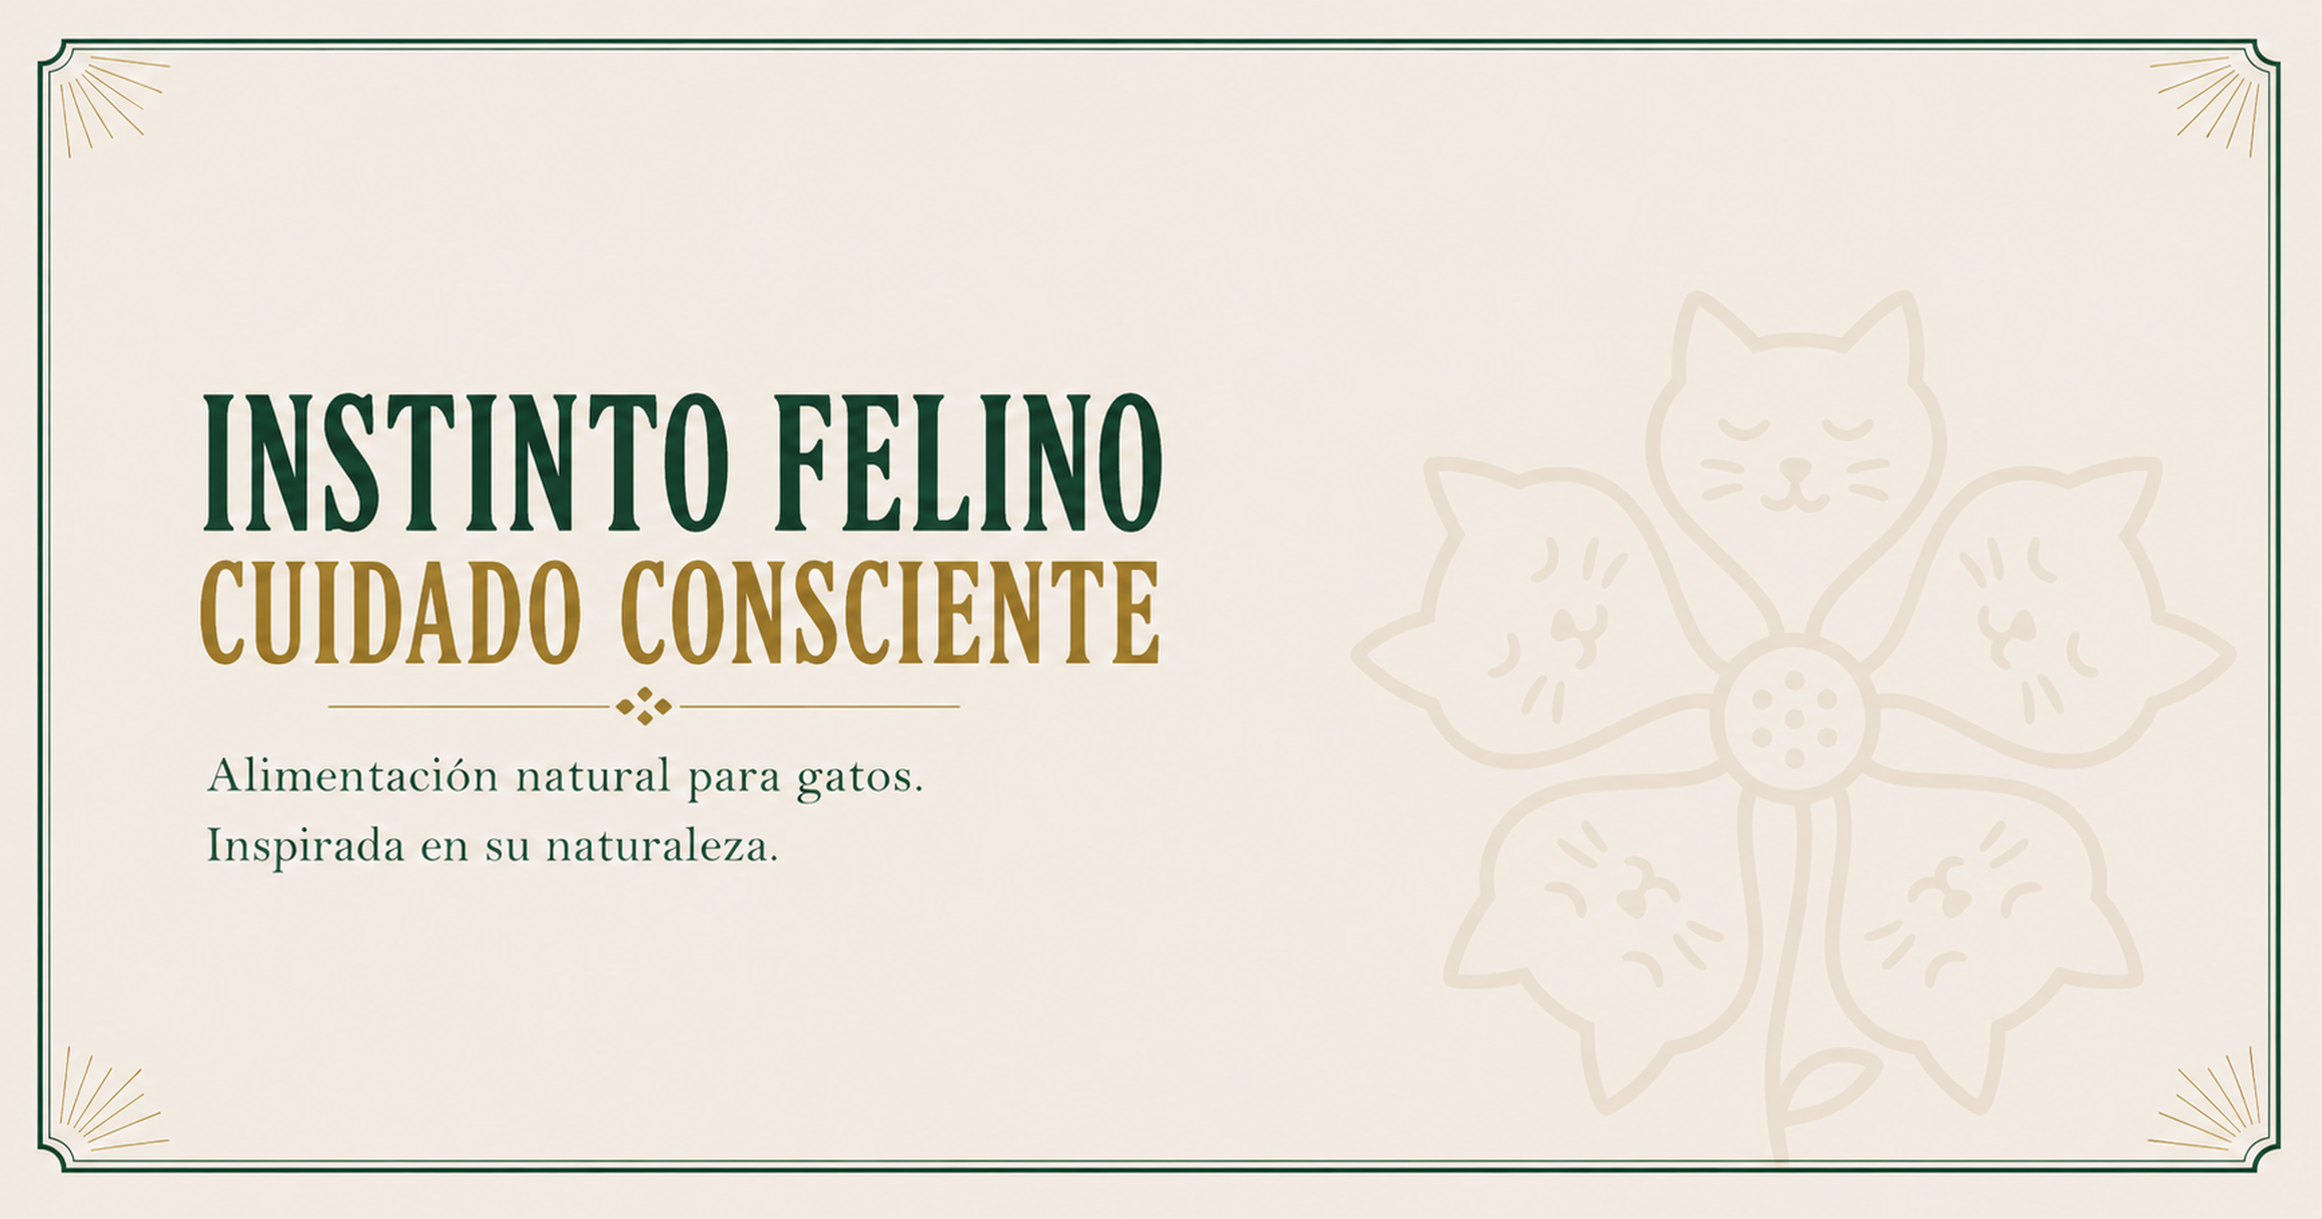
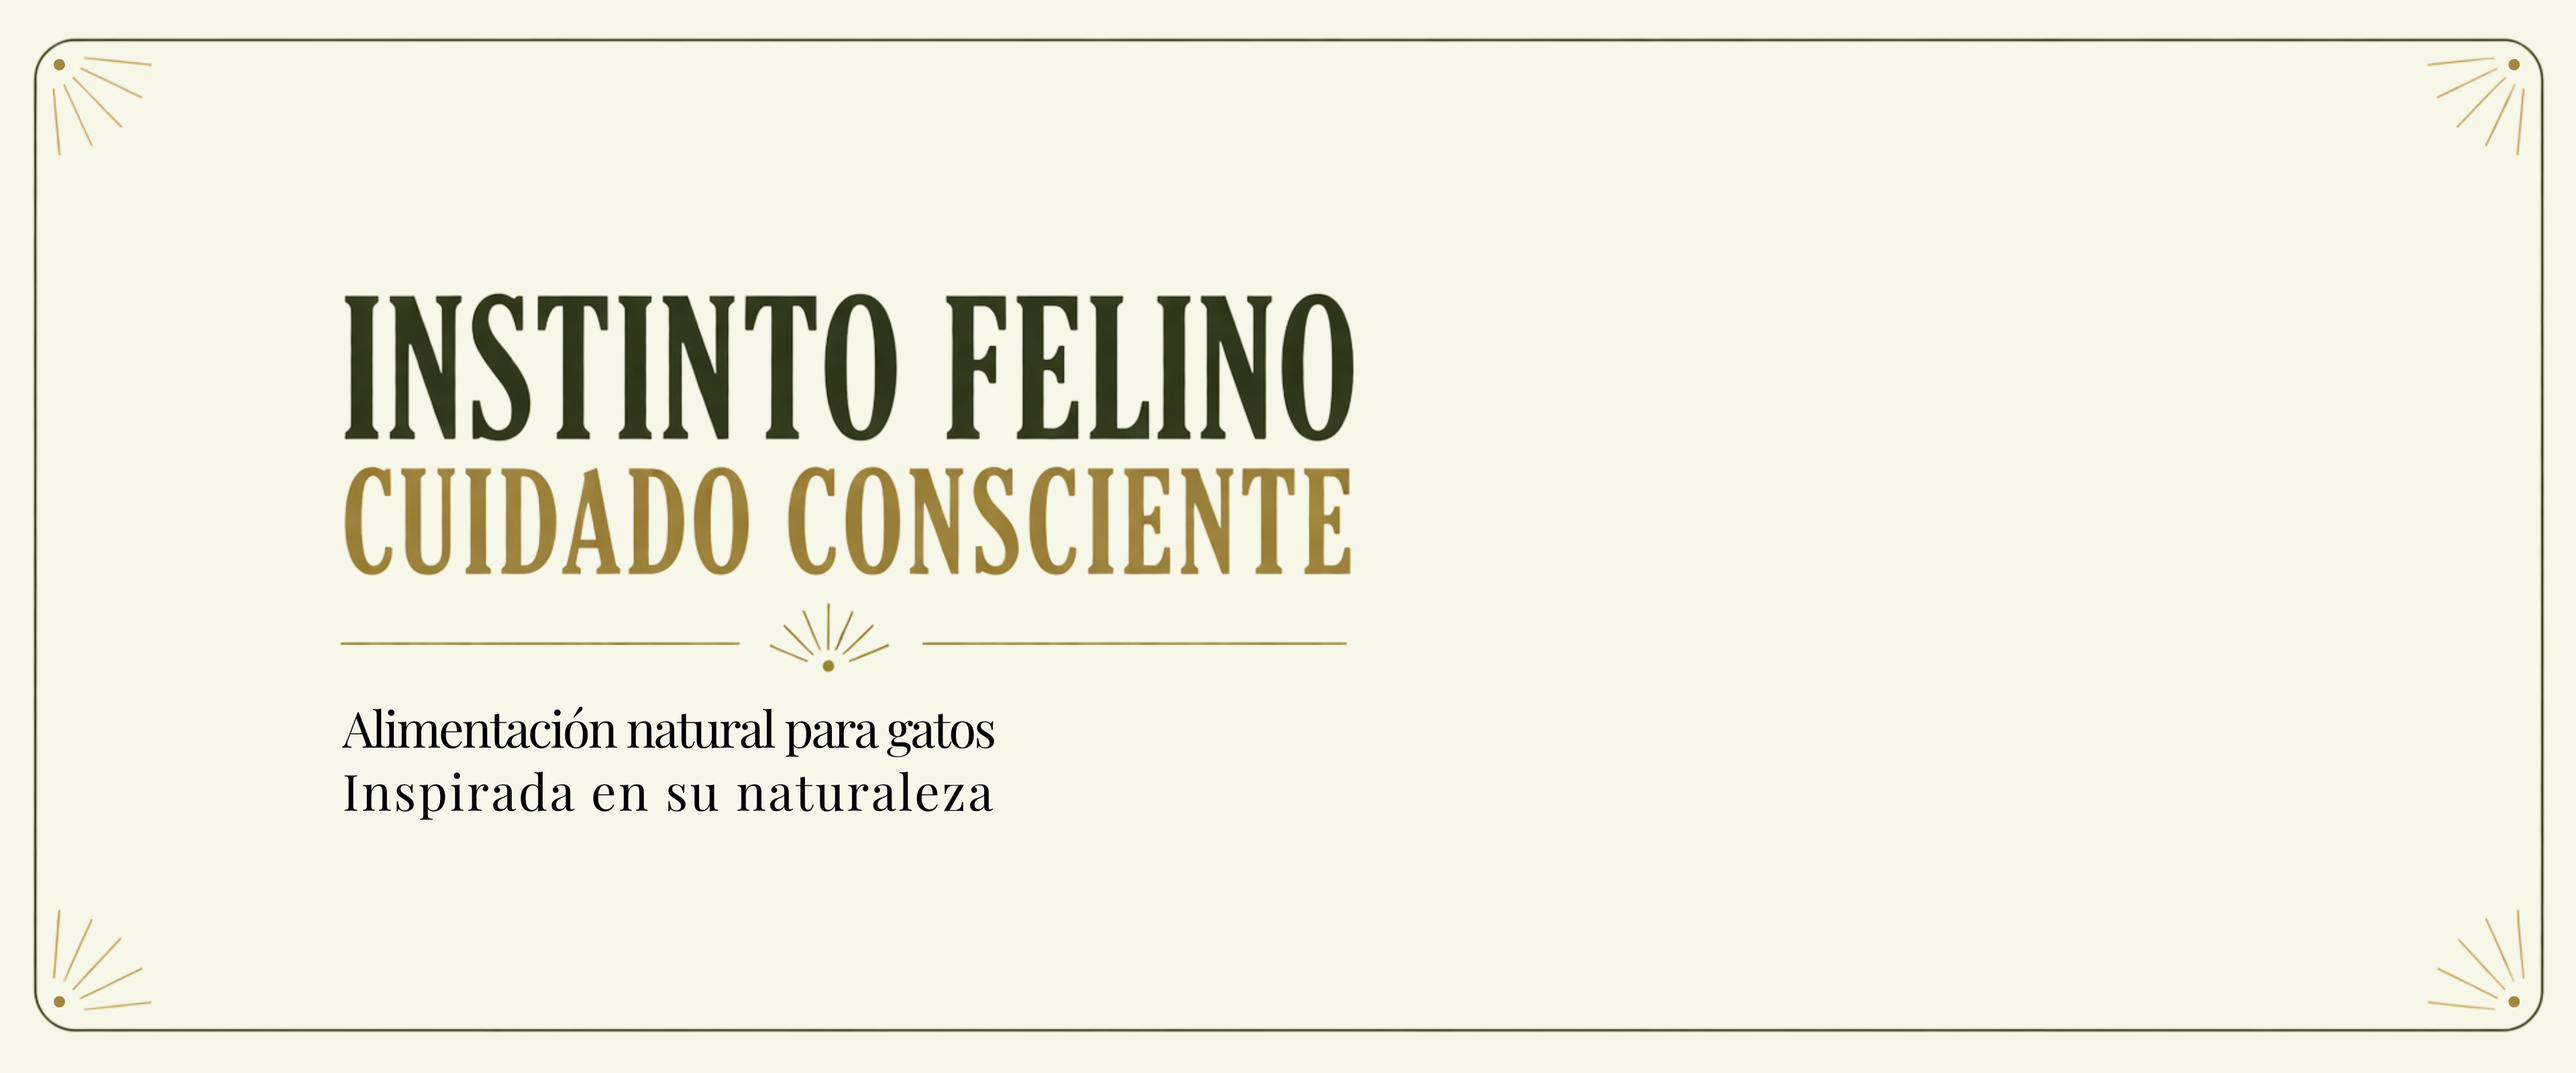
Add files via upload

diff --git a/index.html b/index.html
@@ -811,7 +811,7 @@
   .hero{
     position:relative;
     width:100%;
-    aspect-ratio:1731/909;
+    aspect-ratio:2.4/1;
     background:#f1ecd5;
     overflow:hidden;
     isolation:isolate;
@@ -831,14 +831,16 @@
     object-position:center;
     image-rendering:auto;
   }
-  /* Video hero, rectangular 9:16, centrado en la zona vacía del lado derecho — sin marco */
+  /* Video hero, rectangular 9:16, lado derecho — bordes redondeados + marco verde finito */
   .hero-cat{
     position:absolute;
     right:12%;top:50%;transform:translateY(-50%);
-    height:78%;
+    height:74%;
     aspect-ratio:9/16;
     z-index:3;
     overflow:hidden;
+    border-radius:14px;
+    border:1px solid var(--olive);
   }
 
   .hero-cat video{
@@ -1946,7 +1948,7 @@
 <!-- ============= HERO ============= -->
 <section class="hero" id="inicio">
   <div class="hero-stage">
-    <img class="hero-banner" src="assets/hero-instinto.png?v=13" alt="BARFirenzina — Instinto felino, cuidado consciente"/>
+    <img class="hero-banner" src="assets/hero-instinto.png?v=14" alt="BARFirenzina — Instinto felino, cuidado consciente"/>
     <div class="hero-cat" aria-hidden="true">
       <video autoplay muted loop playsinline preload="auto" disablepictureinpicture>
         <source src="assets/hero.mp4" type="video/mp4" />
